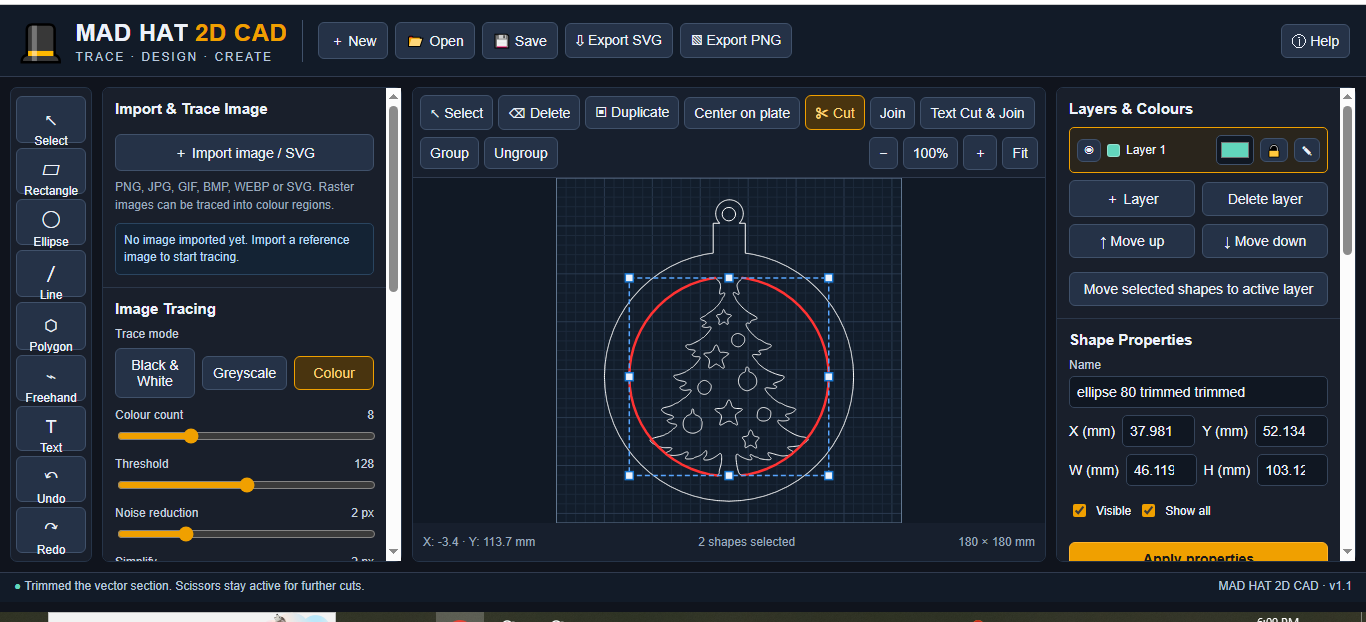
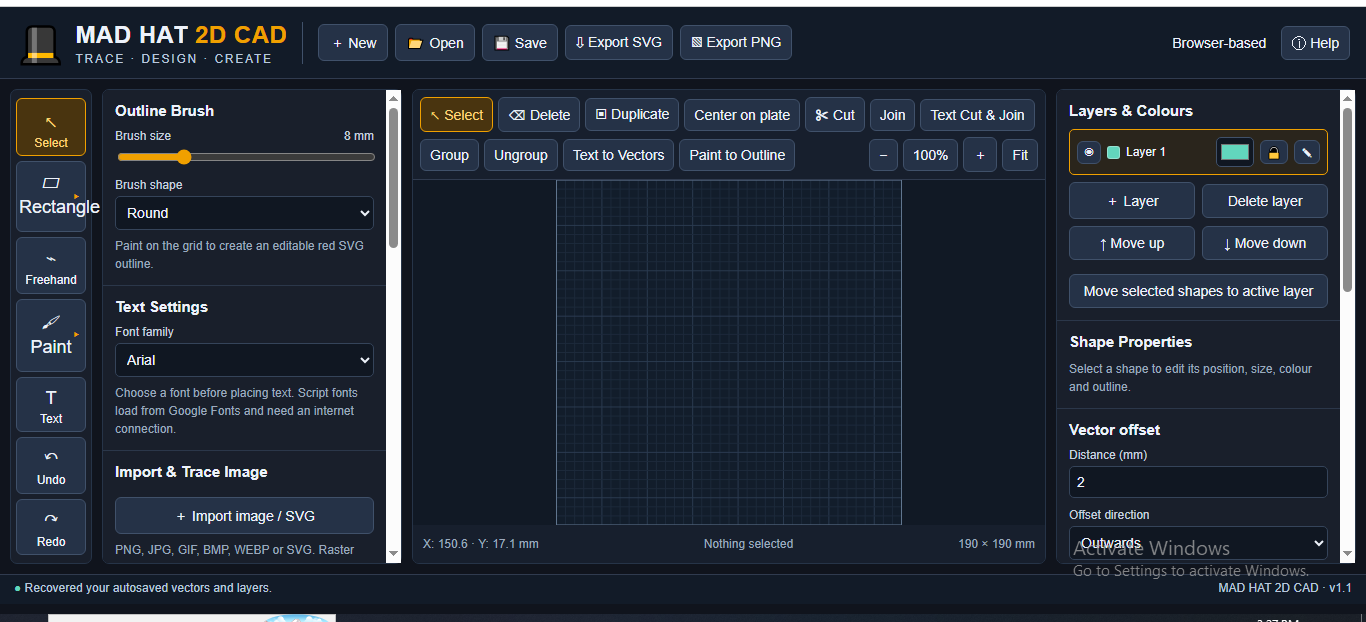
Update

diff --git a/Mad_Hat_2D_CAD_collapsible_menus57.html b/Mad_Hat_2D_CAD_collapsible_menus57.html
@@ -105,6 +105,16 @@ header{height:auto;min-height:65px;flex-wrap:wrap}
 .shape-tool-menu button span{font-size:18px;width:22px;text-align:center}
 .shape-tool-menu button.active{background:#49340f;border-color:var(--orange);color:#ffd47a}
 
+
+/* All settings sections open as compact click-to-expand menus. */
+.settings-menu{padding:0}
+.settings-menu>summary{list-style:none;cursor:pointer;display:flex;align-items:center;justify-content:space-between;padding:12px;font-size:15px;font-weight:bold;user-select:none}
+.settings-menu>summary::-webkit-details-marker{display:none}
+.settings-menu>summary:hover{color:var(--orange)}
+.settings-menu .settings-caret{color:var(--orange);font-size:16px;transition:transform .15s ease}
+.settings-menu[open] .settings-caret{transform:rotate(90deg)}
+.settings-menu-content{padding:0 12px 12px}
+
 </style>
 </head>
 <body>
@@ -155,16 +165,19 @@ header{height:auto;min-height:65px;flex-wrap:wrap}
 </nav>
 
 <aside class="panel leftPanel">
-<div class="section">
-<h3>Outline Brush</h3>
+<details class="section settings-menu">
+<summary>Outline Brush<span class="settings-caret">▸</span></summary>
+<div class="settings-menu-content">
 <label class="fieldlabel" for="brushSize">Brush size <span id="brushSizeVal" class="value">8 mm</span></label>
 <input id="brushSize" type="range" min="1" max="30" value="8">
 <label class="fieldlabel" for="brushShape">Brush shape</label>
 <select id="brushShape" style="width:100%"><option value="round">Round</option><option value="square">Square</option></select>
 <div class="muted" style="margin-top:7px">Paint on the grid to create an editable red SVG outline.</div>
 </div>
-<div class="section">
-<h3>Text Settings</h3>
+</details>
+<details class="section settings-menu">
+<summary>Text Settings<span class="settings-caret">▸</span></summary>
+<div class="settings-menu-content">
 <label class="fieldlabel" for="textFont">Font family</label>
 <select id="textFont" style="width:100%">
 <option value="Arial">Arial</option><option value="Verdana">Verdana</option>
@@ -186,16 +199,17 @@ header{height:auto;min-height:65px;flex-wrap:wrap}
 </select>
 <div class="muted" style="margin-top:7px">Choose a font before placing text. Script fonts load from Google Fonts and need an internet connection.</div>
 </div>
-<div class="section">
-<h3>Import & Trace Image</h3>
+</details>
+<details class="section settings-menu">
+<summary>Import & Trace Image<span class="settings-caret">▸</span></summary>
 <input id="imageInput" type="file" accept="image/*,.svg" class="hidden">
 <button id="chooseImage" class="wide">＋ Import image / SVG</button>
 <div class="muted" style="margin-top:7px">PNG, JPG, GIF, BMP, WEBP or SVG. Raster images can be traced into colour regions.</div>
 <div id="imageInfo" class="notice" style="margin-top:9px">No image imported yet. Import a reference image to start tracing.</div>
-</div>
+</details>
 
-<div class="section">
-<h3>Image Tracing</h3>
+<details class="section settings-menu">
+<summary>Image Tracing<span class="settings-caret">▸</span></summary>
 <label class="fieldlabel">Trace mode</label>
 <div class="row"><button data-mode="bw">Black & White</button><button data-mode="gray">Greyscale</button><button class="active" data-mode="color">Colour</button></div>
 
@@ -216,17 +230,17 @@ header{height:auto;min-height:65px;flex-wrap:wrap}
 <button id="traceBtn" class="wide primary">Trace Image to Smooth Vectors</button> <button id="autoTraceBtn" class="wide">Auto Trace Vector Colour Layers</button>
 
 <div class="muted" style="margin-top:7px">Smoothness is applied to closed contours. For the cleanest results, use high-contrast images and moderate colour counts.</div>
-</div>
+</details>
 
-<div class="section">
-<h3>Canvas & Document</h3>
+<details class="section settings-menu">
+<summary>Canvas & Document<span class="settings-caret">▸</span></summary>
 <div class="row"><label for="docW">Width (mm)</label><input id="docW" type="number" min="1" max="2000" value="180"></div>
 <div class="row"><label for="docH">Height (mm)</label><input id="docH" type="number" min="1" max="2000" value="180"></div>
 <label class="checkbox"><input type="checkbox" id="showGrid" checked> Show grid</label>
 <label class="checkbox"><input type="checkbox" id="snapGrid"> Snap to grid</label>
 <label class="fieldlabel">Grid spacing (mm)</label><input id="gridSize" type="number" min="1" max="100" value="5" style="width:100%">
 <button id="fitBtn" class="wide">Fit drawing to view</button>
-</div>
+</details>
 </aside>
 
 <main class="panel canvasWrap">
@@ -245,16 +259,16 @@ header{height:auto;min-height:65px;flex-wrap:wrap}
 </main>
 
 <aside class="panel rightPanel">
-<div class="section">
-<h3>Layers & Colours</h3>
+<details class="section settings-menu">
+<summary>Layers & Colours<span class="settings-caret">▸</span></summary>
 <div id="layerList" class="layerList"></div>
 <div class="row"><button id="addLayer">＋ Layer</button><button id="deleteLayer">Delete layer</button></div>
 <div class="row"><button id="layerUp">↑ Move up</button><button id="layerDown">↓ Move down</button></div>
 <button id="transferShapes" class="wide" type="button">Move selected shapes to active layer</button>
-</div>
+</details>
 
-<div class="section">
-<h3>Shape Properties</h3>
+<details class="section settings-menu">
+<summary>Shape Properties<span class="settings-caret">▸</span></summary>
 <div id="noSelection" class="muted">Select a shape to edit its position, size, colour and outline.</div>
 <div id="properties" class="hidden">
 <label class="fieldlabel">Name</label><input id="shapeName" type="text" style="width:100%">
@@ -266,15 +280,15 @@ header{height:auto;min-height:65px;flex-wrap:wrap}
 
 <button id="applyProps" class="wide primary">Apply properties</button>
 </div>
-</div>
+</details>
 
-<div class="section"><h3>Vector offset</h3>
+<details class="section settings-menu"><summary>Vector offset<span class="settings-caret">▸</span></summary>
 <label class="fieldlabel" for="offsetDistance">Distance (mm)</label><input id="offsetDistance" type="number" min="0.1" step="0.1" value="2" style="width:100%">
 <label class="fieldlabel" for="offsetDirection">Offset direction</label><select id="offsetDirection" style="width:100%"><option value="outward">Outwards</option><option value="inward">Inwards</option><option value="both">Inwards and outwards</option></select>
 <button id="offsetBtn" class="wide primary">Create offset vectors</button>
 <div class="muted" style="margin-top:7px">Creates editable polygon copies from selected rectangles, ellipses and closed polygons. Original shapes stay in place.</div>
-</div><div class="section"><h3>Align selection</h3><label class="fieldlabel" for="alignMode">Alignment</label><select id="alignMode" style="width:100%"><option value="left">Align left</option><option value="centerX">Center horizontally</option><option value="right">Align right</option><option value="top">Align top</option><option value="centerY">Center vertically</option><option value="bottom">Align bottom</option><option value="distributeX">Distribute horizontally</option><option value="distributeY">Distribute vertically</option></select><button id="alignBtn" class="wide">Apply alignment</button></div><div class="section">
-<h3>Export for SVG / 3D printing</h3>
+</details><details class="section settings-menu"><summary>Align selection<span class="settings-caret">▸</span></summary><label class="fieldlabel" for="alignMode">Alignment</label><select id="alignMode" style="width:100%"><option value="left">Align left</option><option value="centerX">Center horizontally</option><option value="right">Align right</option><option value="top">Align top</option><option value="centerY">Center vertically</option><option value="bottom">Align bottom</option><option value="distributeX">Distribute horizontally</option><option value="distributeY">Distribute vertically</option></select><button id="alignBtn" class="wide">Apply alignment</button></details><details class="section settings-menu">
+<summary>Export for SVG / 3D printing<span class="settings-caret">▸</span></summary>
 <label class="fieldlabel">Export format</label>
 <select id="exportMode" style="width:100%">
 <option value="combined">Single SVG (all visible shapes)</option>
@@ -289,7 +303,7 @@ header{height:auto;min-height:65px;flex-wrap:wrap}
 <button id="exportLayers" class="wide">⇩ Export each layer as SVG</button>
 <button id="exportJson" class="wide">Save editable project JSON</button>
 <div class="notice" style="margin-top:9px">SVG preserves vector paths and fill colours. Export separate layers for multicolour printing.</div>
-</div>
+</details>
 </aside>
 </div>
 
